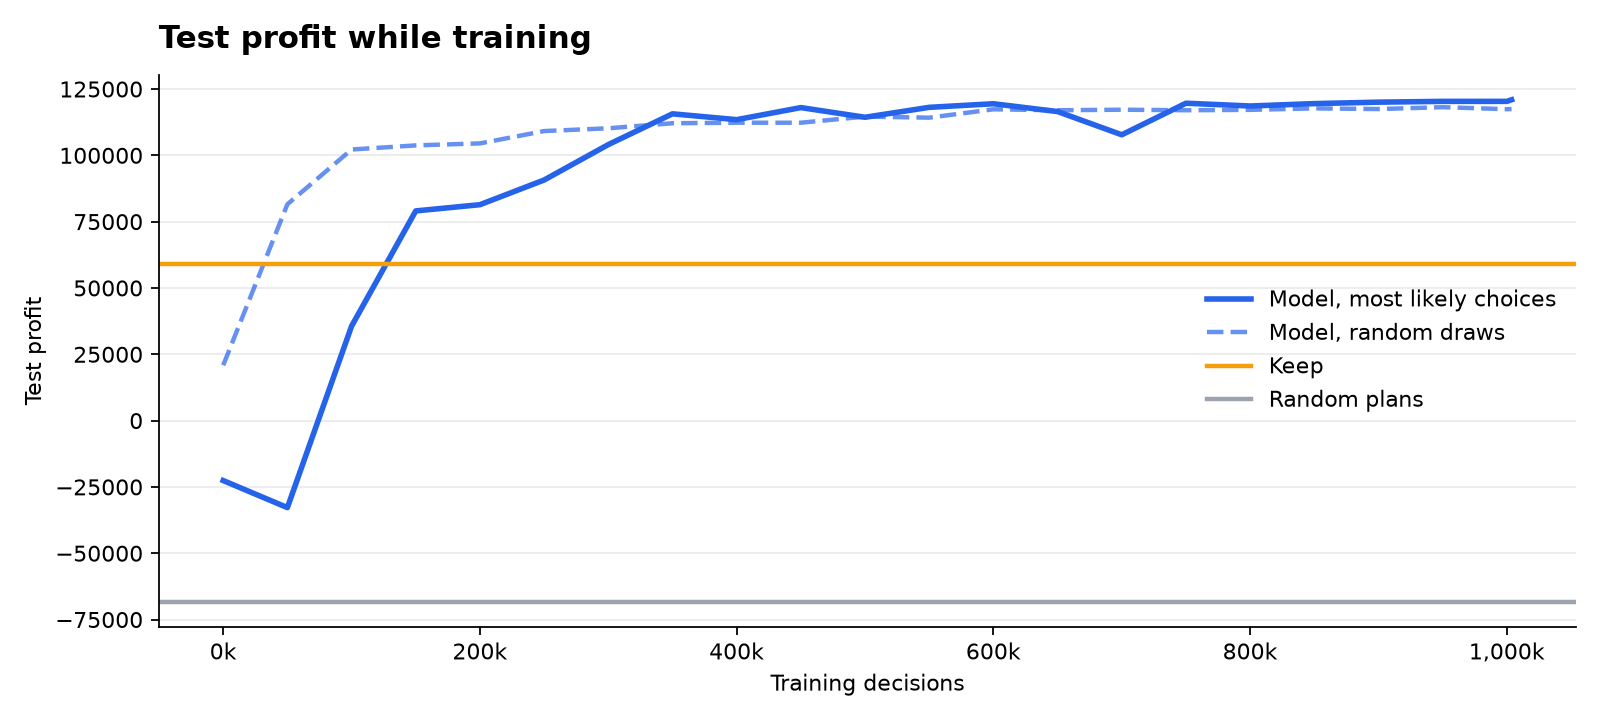
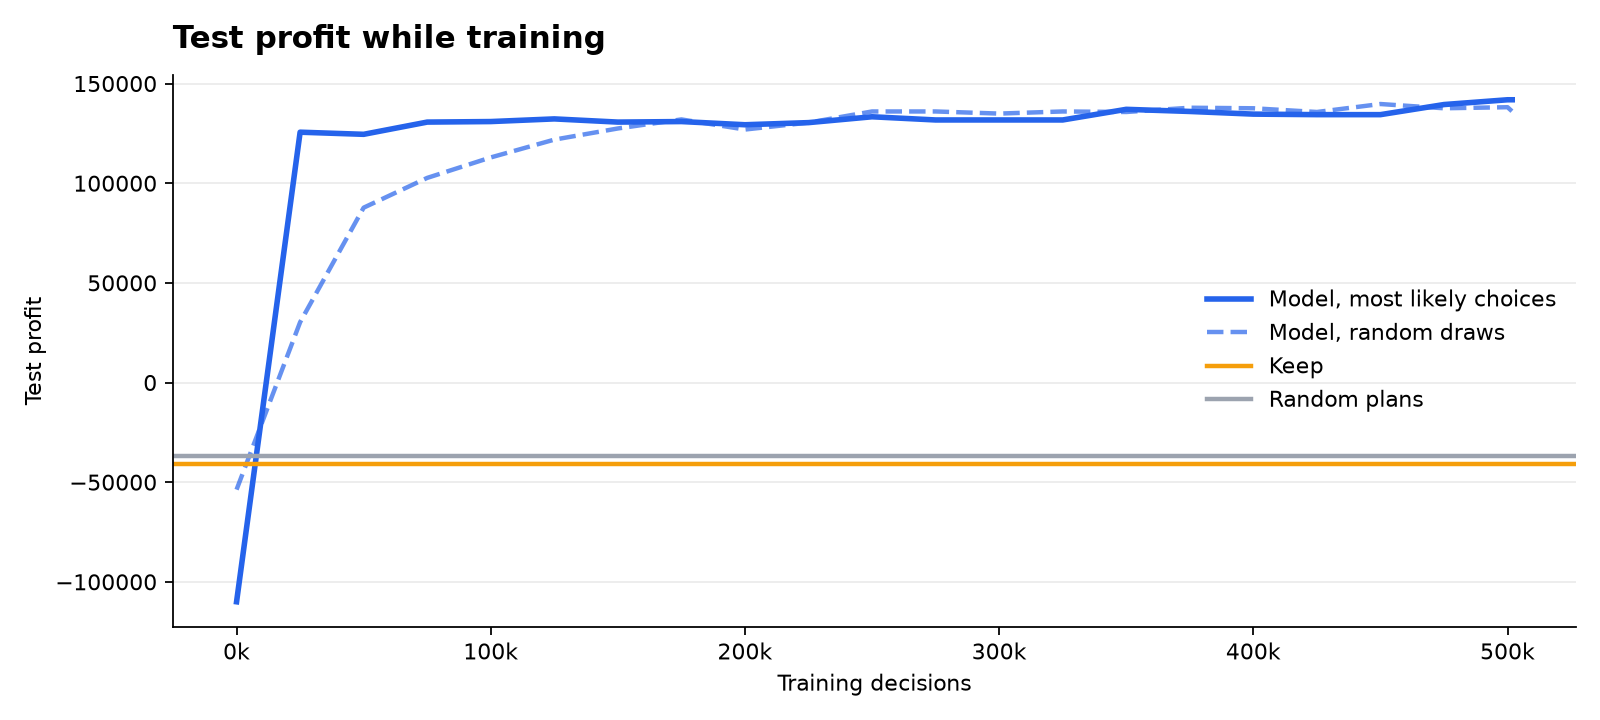
Add a roadmap and tidy the repo around it
- docs/roadmap.md: the target (money left on the table against the
  tightest bound, over light to busy days) and five milestones, starting
  with a whole-order upper bound and the busy-day gap.
- Move the large factory of experiments 1 to 9 to scenarios/large/.
- Remove lab variants used only by experiments 11 and 13, and
  scripts/other_orders.py (large factory only); all are in git history.
- Rewrite the README around the lab factory and redraw its pictures
  from the latest lab run; the image script now reads the episode length.
- Shorten "Where things stand" and point "Next steps" to the roadmap.

diff --git a/tests/test_sim.py b/tests/test_sim.py
@@ -10,7 +10,7 @@ from sjfactory.policies import KeepPolicy, RandomPolicy
 from sjfactory.recorder import Recorder
 from sjfactory.spec import PROJECT_ROOT, scenario_from_dict
 
-FACTORY = PROJECT_ROOT / "scenarios" / "default.yaml"  # the large factory most tests were written for
+FACTORY = PROJECT_ROOT / "scenarios" / "large" / "default.yaml"  # the large factory most tests were written for
 
 # One machine that turns A into B; B can be sold
 TINY = {
@@ -102,7 +102,7 @@ def test_same_seed_same_orders():
 
 
 def test_varied_orders_follow_their_ranges():
-    sim = FactorySim(load_scenario(PROJECT_ROOT / "scenarios" / "varied.yaml"))
+    sim = FactorySim(load_scenario(PROJECT_ROOT / "scenarios" / "large" / "varied.yaml"))
     counts, single = set(), 0
     for seed in range(40):
         orders = sim.reset(seed=seed).orders
@@ -117,7 +117,7 @@ def test_varied_orders_follow_their_ranges():
 
 
 def test_orders_are_hidden_until_known():
-    env = FactoryEnv(PROJECT_ROOT / "scenarios" / "varied.yaml", ticks_per_action=60)
+    env = FactoryEnv(PROJECT_ROOT / "scenarios" / "large" / "varied.yaml", ticks_per_action=60)
     obs, _ = env.reset(seed=0)
     s = env.sim.state
     assert any(o.known_time > 0 for o in s.orders)
@@ -151,7 +151,7 @@ def test_recipes_that_can_never_run_get_no_slot():
 
 
 def test_casters_scenario_plans_casters_too():
-    env = FactoryEnv(PROJECT_ROOT / "scenarios" / "casters.yaml", horizon=50)
+    env = FactoryEnv(PROJECT_ROOT / "scenarios" / "large" / "casters.yaml", horizon=50)
     assert [k.category for k in env.kinds] == ["Caster", "Constructor", "Assembler"]
     assert env.action_space.nvec.tolist() == [1 + 3 * 2, 1 + 5 * 4, 1 + 5 * 4]
 

diff --git a/scripts/readme_images.py b/scripts/readme_images.py
@@ -33,6 +33,7 @@ def style(ax, title: str):
 def draw_profit(run: Path):
     base = json.loads((run / "baselines.json").read_text())
     model = json.loads((run / "latest_curve.json").read_text())["fixed"]
+    horizon = json.loads((run / "config.json").read_text())["horizon"]
     fig, ax = plt.subplots(figsize=(10, 4.5), dpi=160)
     for name, curve, color, label in (
         ("random", base["random"]["curve"], GRAY, "Random plans"),
@@ -44,9 +45,9 @@ def draw_profit(run: Path):
                     textcoords="offset points", color=color, va="center", fontweight="bold")
     ax.set_xlabel("Time in the episode (s)")
     ax.set_ylabel("Cash")
-    ax.set_xlim(right=5000 * 1.07)
+    ax.set_xlim(right=horizon * 1.1)
     ax.legend(frameon=False, loc="upper left")
-    style(ax, "Money over one 5000 s episode, same orders")
+    style(ax, f"Money over one {horizon} s episode, same orders")
     fig.tight_layout()
     fig.savefig(OUT / "profit.png")
 

diff --git a/docs/experiments/README.md b/docs/experiments/README.md
@@ -2,24 +2,28 @@
 
 What was tried in training, what happened, and what it taught us. Run folders live in `runs/` on the machine that made them (not in git); `runs/index.html` compares them.
 
-All profits are the mean over test seeds 1000, 1001 and 1002 (the same orders every time), per 5000 s episode.
+Profits in experiments 1 to 9 are the mean over test seeds 1000, 1001 and 1002 per 5000 s episode, on the large factory. From experiment 10 on, results come from `check` on the lab factory: the mean over new seeds 2000 to 2009 per one-hour episode, often as a share of the upper bound.
 
-## Where things stand (2026-10-02)
+The plan for what comes next is in the [roadmap](../roadmap.md).
 
-**New default: the small lab factory** ([experiment 10](10-lab-factory.md)). It has 9 machines, round numbers and a load that can be checked by hand. A training run reaches its plateau in about 2 minutes. `python -m sjfactory check` shows keep, the oracle and the upper bound in under a minute. On new seeds the model reaches 96% of the upper bound (oracle 97%, keep 32%). Test ideas for the factory here first, as variant files (`base: lab.yaml`).
+## Where things stand (2026-10-03)
 
-First ideas tried ([experiment 11](11-lab-variants.md)): serving machines further down the line first changes nothing; spare time before the bottleneck lifts the oracle to 100% of the bound; storage costs hurt keep but not a model. The model trained on more orders than capacity (`lab-busy.yaml`) is the best on every lab scenario.
+**The lab factory** (`scenarios/lab.yaml`, [experiment 10](10-lab-factory.md)) is where all work happens: 9 machines, round numbers, a training run levels off in a few minutes, and `check` compares keep, models, the look-ahead planner, the oracle and the upper bound in under a minute.
 
-With a third product whose gear maker shares plates with the assemblers ([experiment 12](12-mixed-demand-and-three-products.md)), machine order starves the line: keep ships nothing and the oracle's played plan reaches only 53% of the bound. The model works around it (93%); with downstream priority, 95%. Compare against the upper bound; the oracle is only a fair yardstick when flow within a minute is smooth.
+**Since experiment 14 the lab ships whole orders only**: a short order earns nothing and is fined its full quantity at the full price. Under these rules the model reaches 89 to 91% of the upper bound on normal days, ahead of or level with the oracle, and 89% on `lab-three-downstream` (oracle 72%). On busy days (`lab-busy`) it reaches only 79%, where the oracle gets 87%. That gap, choosing which orders to drop, is the open problem; the roadmap starts there.
 
-Stricter penalties, per unit or per order, don't change which product gets the machines ([experiment 13](13-yardsticks-and-penalties.md)): all models ship the same mix. Product priority is a weak signal because each product displaces another on a busy machine, so the gain is only the difference in value. Order notice is generous (10 to 30 times the time to make a product). A look-ahead planner in the real simulator is now in `check`, but it is weaker than the models.
+What earlier lab experiments settled (numbers under the old rules, where part of an order was paid):
+- Serving machines further down the line first only matters when a material feeds recipes at different depths ([11](11-lab-variants.md), [12](12-mixed-demand-and-three-products.md)). There, machine order starves the line and the oracle fails (53%), while the model works around it (93%).
+- Spare time before the bottleneck lifts the oracle to 100% of the bound; storage costs hurt keep but not a model ([11](11-lab-variants.md)).
+- Training on busy days gives a model that is best on every lab scenario ([11](11-lab-variants.md), [12](12-mixed-demand-and-three-products.md)).
+- Stricter penalties don't change which product gets the machines, because on a busy machine the gain is only the difference in product value ([13](13-yardsticks-and-penalties.md)). Order notice is generous, 10 to 30 times the time to make a product.
+- Gamma stays at 0.97: 0.98 and 0.99 did worse in 500k steps ([14](14-whole-orders-and-gamma.md)).
 
-**Since experiment 14 the lab ships whole orders only** (`partial_delivery: false`): a short order earns nothing and is fined its full quantity at the full price. Numbers from experiments 10 to 13 come from the old rules. Under the new rules the model reaches 89 to 91% of the upper bound on normal days, ahead of or level with the oracle, but only 79% on busy days, where the oracle gets 87%. Gamma 0.98 or 0.99 did worse than 0.97 in 500k steps.
+The scenario files used only by experiments 11 and 13 (`lab-storage`, `lab-bottleneck`, `lab-three-strict`, `lab-three-orderfine`) were removed on 2026-10-03; get them back from git history if needed (`git log --all -- scenarios/lab-storage.yaml`).
 
-The rest of this section is about the larger factory of experiments 1 to 9 (`casters.yaml`, `varied.yaml`).
+### The large factory (experiments 1 to 9, finished)
 
-
-Two trained models, both with the move action and a move cost of 50, on the casters factory:
+The files are now in `scenarios/large/`. Two trained models, both with the move action and a move cost of 50, on the casters factory:
 
 | Orders (30 new seeds each) | Keep | Trained on the usual orders | Trained on varied orders |
 |---|---|---|---|
@@ -28,24 +32,13 @@ Two trained models, both with the move action and a move cost of 50, on the cast
 | Almost only Motor | 164,590 | 161,190 | 175,910 |
 | Tough: 100 large orders, known 900 to 2400 s ahead | -51,520 | -65,330 | -33,150 |
 
-- The action is one move per machine kind per minute ([experiment 7](07-move-action-and-casters.md)): the same level as the old plan action in less than half the steps. The casters are back and learned just as well.
-- A model trained on the usual orders plays one plan for that mix and loses to keep when the orders take another shape ([experiment 6](06-other-orders.md)). Trained on varied orders ([experiment 8](08-varied-orders.md)), it beats keep on every order shape tested, at a cost of about 10k on the usual shape.
-- Early orders used to be impossible (the first Frame takes about 550 s). Orders can now have a notice time, and nothing is due before it.
-- A move cost of 50 in the reward cut changeovers from 203 to 46 per episode on varied orders, without losing profit.
-
-The model is no longer the main limit: on every order type it matches or beats an oracle planner that knows all orders in advance ([experiment 9](09-bottleneck-analysis.md)). With the usual orders, demand is the limit; with heavy orders, the constructors' iron bar and screw time. Use `python -m sjfactory --scenario <file> check <model>` to see how close a model gets to the upper bound.
+- The action is one move per machine kind per minute ([experiment 7](07-move-action-and-casters.md)).
+- A model trained on one order shape plays one plan; trained on varied orders it beats keep on every shape tested ([6](06-other-orders.md), [8](08-varied-orders.md)).
+- On every order type the models match or beat the oracle ([9](09-bottleneck-analysis.md)). The open questions there are parked in the roadmap.
 
 ## Next steps
 
-1. Busy days under whole orders: the model is 8 points behind the oracle at choosing which orders to drop. Try longer training on `lab-busy.yaml` (gamma stays 0.97), or show the model how much work the known orders need compared with the machine time left.
-2. Shorter notice (for example 120 to 600 s) to test reacting, not just dividing machine time; show 30 orders instead of 20.
-3. Break ties in input priority: machines that make a product first, then those that make parts (under keep, `lab-three-downstream.yaml` ships no Frames).
-4. Find where batch flow loses 10 to 15% in the larger factory: input priority is not it (experiment 11). Next suspect: machines waiting for a full batch of inputs (Rotor needs 25 screws).
-5. Harder lab variants that need planning: machine breakdowns, or a machine kind that can only run some recipes.
-6. Larger factory: train the varied model longer (for example 3M steps; it was still improving at 1M). It is 10k behind the usual model on the usual orders.
-7. Keep the move cost at 50 or lower: useful plans switch 60 to 110 times per episode.
-8. Scenario ideas from [Not modelled yet](../design/simulation.md#not-modelled-yet).
-
+See the [roadmap](../roadmap.md). The first step is a whole-order upper bound, so the busy-day gap is measured against an honest ceiling.
 ## Experiments
 
 | # | Page | Change | Result |

diff --git a/README.md b/README.md
@@ -2,7 +2,7 @@
 
 <p align="center">
   A factory simulator where a reinforcement learning model decides which machine makes what.<br>
-  Work in progress: it already earns more than the "change nothing" rule.
+  Work in progress: on normal days it already matches a planner that knows every order in advance.
 </p>
 
 <p align="center">
@@ -13,20 +13,20 @@
 </p>
 
 <p align="center">
-  <img src="docs/images/profit.png" alt="Cash over time: trained model 118k, keep 56k, random plans -68k" width="860">
+  <img src="docs/images/profit.png" alt="Cash over one hour on the lab factory: trained model 111k, keep 38k, random plans -93k" width="860">
 </p>
 
-Reinforcement learning (RL) means a program learns by trial and error, guided by a reward score. Here the reward is money earned. Every minute the model may move one machine of each kind to another recipe, and the simulator plays out the next minute.
+Reinforcement learning (RL) means a program learns by trial and error, guided by a reward score. Here the reward is money earned. Every minute the model may move one machine of each kind to another recipe, and the simulator plays out the next minute. Customers order products with a due time, and an order is paid only if it ships in full; a short order is fined.
 
-This project is still in development. These are the results so far, and they will change.
+This project is still in development. Results so far, on the small lab factory (`scenarios/lab.yaml`), mean over 10 new days (seeds 2000 to 2009):
 
-| Policy | Test profit | Ordered units shipped |
+| Policy | Normal day (`lab`) | Busy day (`lab-busy`) |
 |---|---|---|
-| **Trained model** (1M decisions, about 13 minutes) | **about 120k** | **about 88%** |
-| Keep (every machine stays on its starting recipe) | 58.9k | 39% |
-| Random plans (before the move action) | -68.3k | about 2% |
+| **Trained model** (500k decisions, about 4 minutes) | **109.8k (89%)** | 101.5k (79%) |
+| Oracle: an integer program that knows every order in advance | 109.0k (88%) | **112.1k (87%)** |
+| Keep: every machine stays on its starting recipe | -2.9k | -31.8k |
 
-Profit is the mean over three test episodes with fixed orders, on the larger factory of experiments 1 to 9 (`scenarios/casters.yaml`). The default is now the small lab factory (`scenarios/lab.yaml`).
+The share in brackets is of the upper bound, a profit no schedule can beat. On normal days the model matches the oracle; on busy days, where it must choose which orders to give up, it is still behind. The [roadmap](docs/roadmap.md) says what we aim for and what comes next.
 
 ## How it works
 
@@ -40,24 +40,23 @@ flowchart LR
     B --> E["HTML pages and charts"]
 ```
 
-The model starts out knowing nothing. After about 120k decisions it beats keep, and it levels off near 120k profit:
+The model starts out knowing nothing. After about 25k decisions it is far ahead of keep, and it levels off within about 300k:
 
 <p align="center">
-  <img src="docs/images/learning.png" alt="Test profit while training: the model passes keep after about 120k decisions and settles near 120k profit" width="860">
+  <img src="docs/images/learning.png" alt="Test profit while training: the model passes keep almost at once and settles near 140k on the test days" width="860">
 </p>
 
 The solid line is the model taking its most likely choices. The dashed line is it drawing choices at random, as it does in training. Both end in the same place, so the model really has a plan and is not relying on luck.
 
-This is what the plan looks like on the factory floor: 14 constructors on top, 5 assemblers at the bottom, one colour per recipe.
+This is what the plan looks like on the factory floor: 3 smelters, 3 constructors and 3 assemblers, one colour per recipe.
 
 <p align="center">
-  <img src="docs/images/schedule.png" alt="Machine schedule of the trained model" width="860">
+  <img src="docs/images/schedule.png" alt="Machine schedule of the trained model on the lab factory" width="860">
 </p>
 
-The pictures come from one training run; `uv run python scripts/readme_images.py runs/<folder>` redraws them.
+The pictures come from one training run on `lab.yaml`; `uv run python scripts/readme_images.py runs/<folder>` redraws them.
 
-All docs start at [docs/README.md](docs/README.md): [design](docs/design/README.md) (simulation rules, what the model decides and sees, training) and [experiments](docs/experiments/README.md) (results so far, lessons, next steps).
-
+All docs start at [docs/README.md](docs/README.md): the [roadmap](docs/roadmap.md), [design](docs/design/README.md) (simulation rules, what the model decides and sees, training) and [experiments](docs/experiments/README.md) (results so far, lessons).
 ## Run
 
 ```bash
@@ -86,9 +85,10 @@ Each run folder also holds `summary.json`, `history.xlsx`, `dashboard.png`, `gan
 
 ## Layout
 
-- `scenarios/lab.yaml`: the default factory, small and balanced for quick experiments. A variant file names it as `base:` and lists only what changes (see `lab-busy.yaml`)
-- `scenarios/default.yaml`, `casters.yaml`, `varied.yaml`: the larger factory used in experiments 1 to 9
-- `sjfactory/`: the code (`spec` → `sim` → `env` → `policies`, plus `evaluate`, `training`, `recorder`, `plots` and `web` for running and watching)
+- `scenarios/lab.yaml`: the default factory, small and balanced for quick experiments. A variant file names it as `base:` and lists only what changes: `lab-busy.yaml` (more orders than capacity), `lab-mixed.yaml` (light to busy days), `lab-three.yaml` and `lab-three-downstream.yaml` (a third product that shares parts)
+- `scenarios/large/`: the larger factory of experiments 1 to 9, now parked; the tests still use it
+- `sjfactory/`: the code (`spec` → `sim` → `env` → `policies`, plus `check`, `lookahead`, `evaluate`, `training`, `recorder`, `plots` and `web` for checking, running and watching)
+- `scripts/readme_images.py`: redraws the pictures on this page
 - `tests/`: tests
 
 Generated files (`runs/`, `*.png`, `*.xlsx`, `*.zip`) are ignored by git. Don't commit them. The pictures in `docs/images/` are the one exception.

diff --git a/docs/roadmap.md b/docs/roadmap.md
@@ -1,0 +1,100 @@
+# Roadmap
+
+Where the project is going, why, and in what order. Started 2026-10-03, after experiment 14. Each milestone
+says what "done" means; when one is done, mark it here and record the work as an experiment page.
+
+## The target
+
+The project builds a program that runs a factory for as much money as possible. So the measure that counts is
+the money it leaves on the table on a day $d$:
+
+$$\text{regret}(d) = \text{best possible profit}(d) - \text{model's profit}(d)$$
+
+averaged over the kinds of days a real factory sees. "Best possible" has several levels, and each one is at
+least as high as the one before:
+
+$$\text{best plan knowing only today's orders} \le \text{best plan knowing every order} \le \text{whole-order bound} \le \text{upper bound}$$
+
+The first can't be computed, so we measure against the tightest one we can compute and say which one it is.
+
+**Goal:** on a fixed set of test days, from light to busy, the model is at least as good as the oracle (the
+planner that knows every order in advance) on every kind of day, and leaves less than 10% of the tightest
+bound on the table on average.
+
+## Why busy days come first
+
+- On normal days almost every order can be made, so the job is only to divide machine time. The model already
+  matches the oracle there (89-91% of the upper bound). Little money is left to win.
+- On busy days there are more orders than the factory can make, and since experiment 14 an order is paid only
+  if it ships in full. A plan must give up whole orders on purpose, and choosing badly is expensive: work spent
+  on an order that is dropped later is lost, and the order is fined its full price. This is where the model is
+  furthest behind (79% against the oracle's 87%).
+- Busy days hide two different problems. **Which orders to take** is a choice among about 30 to 50 orders that
+  a solver can make exactly in well under a second, but a trained model must learn it from fines that arrive
+  up to 30 minutes after the decision. **How to run the line minute by minute** is where the trained model is
+  already strong; it beats the oracle when the line can starve (`lab-three`: 93% against 53%).
+
+## Milestones
+
+### 1. An honest yardstick (next)
+
+The upper bound in `check.py` lets an order ship in part even when the scenario ships whole orders only. On a
+busy day it then fills spare machine time with pieces of orders that in reality earn nothing, so the bound is
+too high exactly where the model looks weakest. We don't yet know how big the busy-day gap really is.
+
+- Make the bound treat each order as yes or no when `partial_delivery: false` (an integer program with one
+  yes/no choice per order; machine time stays divisible, so it stays fast and stays a true bound).
+- Re-measure keep, the oracle and the best models on `lab`, `lab-busy`, `lab-mixed` and
+  `lab-three-downstream`.
+
+Done when `check` prints the whole-order bound and the numbers above are redone with it.
+
+### 2. Where the busy-day money goes
+
+Split each policy's loss on busy days into parts that point to different fixes:
+- **choice:** the orders it filled are worth less than the oracle's set;
+- **waste:** machine time spent on units that were never shipped (orders started and then missed);
+- **flow:** time lost to waiting, switching and batches, on the orders it did ship.
+
+Done when `check` prints this split and we know which part is largest.
+
+### 3. Close the busy-day gap
+
+Try, cheapest first, and stop when the model reaches the oracle on `lab-busy`:
+1. Longer training on `lab-busy` (gamma stays 0.97).
+2. Show the model, for the known orders, how much machine time they need compared with the time left before
+   each is due, so it can see which orders still fit.
+3. Let the model drop an order on purpose, so nothing more is spent on it.
+4. If the model still can't learn the choice: a small solver picks the orders each minute and the model runs
+   the line for them. Kept as its own policy, so pure model and solver-plus-model can be compared.
+
+### 4. One score for all kinds of days
+
+A single `check` run over a fixed set of days: light to busy (`lab-mixed`), shared materials
+(`lab-three-downstream`), and later short notice. It prints the share of the tightest bound per kind of day
+and on average, so one number says whether a change helped, and no kind of day gets worse unnoticed.
+
+### 5. Reacting to the unexpected
+
+Today orders are known 10 to 30 times the time it takes to make them, so knowing every order in advance is
+worth almost nothing, and the oracle is a fair yardstick. Real factories get rush orders and breakdowns, and
+that is where a trained model should beat any planner that plans once.
+- Shorter notice (120 to 600 s), and show 30 orders instead of 20.
+- Machine breakdowns (a new scenario setting whose default is none).
+- A fair yardstick for this: the look-ahead planner or the oracle re-planned each minute from the orders known
+  so far.
+
+## Parked
+
+Not on the path to the target; pick up only if a milestone needs them.
+
+- Ties in input priority: machines that make a product first, then those that make parts (under keep,
+  `lab-three-downstream.yaml` ships no Frames). Matters for keep, not for trained models.
+- The large factory of experiments 1 to 9 (`scenarios/large/`): where batch flow loses 10 to 15%; longer
+  training of the varied model; move cost. Its files and best models stay usable, and the tests still use it.
+- Buying raw materials.
+
+## Done
+
+- Experiments 1 to 14 ([experiments](experiments/README.md)): a model that matches or beats the oracle on
+  normal days in a 4-minute training run.

diff --git a/docs/design/simulation.md b/docs/design/simulation.md
@@ -13,7 +13,7 @@
 
 All machines share one warehouse, so the scenario needs no links between machines. The real connections are the material flow chart (`material_flow.png`), drawn from the recipes.
 
-A change meant only to make this faster must give identical results: compare it second by second with the old code on several seeds, with random plans, and check that keep still makes 52,050 on seed 0.
+A change meant only to make this faster must give identical results: compare it second by second with the old code on several seeds, with random plans, and check that keep still makes 52,050 on seed 0 of `scenarios/large/default.yaml`.
 
 ## Variant files
 
@@ -38,16 +38,12 @@ A small factory built for quick experiments: round numbers, every load easy to c
 
 On seeds 2000 to 2009, keep makes -2.9k and the oracle 109k (88% of the upper bound, 123k).
 
-Variants (each a few lines on top of `lab.yaml`):
+Variants (each a few lines on top of `lab.yaml`), each with a role in the [roadmap](../roadmap.md):
 - `lab-busy.yaml`: 30 to 50 orders, about 410 units against a capacity of 360, so the plan also has to choose which orders to leave short.
-- `lab-storage.yaml`: storage costs on every part and product (0.01 to 0.05 per unit per second), so parts made too early cost profit.
-- `lab-bottleneck.yaml`: 4 smelters and 4 constructors, so only the assemblers are tight.
 - `lab-mixed.yaml`: 15 to 50 orders, from light days to more than the factory can make.
-- `lab-three-strict.yaml` and `lab-three-orderfine.yaml`: `lab-three-downstream.yaml` with penalties twice the price, or a fine of 3,000 per order not filled in full (material field `order_fine`).
 - `lab-three.yaml`: a third product, Pump (1 Gear + 1 Plate + 1 Wire; a constructor makes a Gear from 2 Plates), on 4 smelters, 4 constructors and 3 assemblers. Plates go both to assemblers and to gear making, and in machine order the gear maker takes every plate, so keep ships nothing. `lab-three-downstream.yaml` is the same with `input_priority: downstream`.
 
-`casters-downstream.yaml` is the larger casters factory with `input_priority: downstream`.
-
+Variants used only by experiments 11 and 13 (storage costs, a single tight kind, stricter penalties, order fines) were removed on 2026-10-03 and are in git history. The settings they used (`storage_cost`, `order_fine`) still work.
 ## Checking a scenario without training
 
 `uv run python -m sjfactory --scenario <file> check [models ...]` prints, in under a minute:
@@ -57,7 +53,11 @@ Variants (each a few lines on top of `lab.yaml`):
 
 Use it to see whether a change to the factory changes anything before spending a training run on it.
 
-## The default scenario (`scenarios/default.yaml`)
+## The large factory (`scenarios/large/`)
+
+The factory of experiments 1 to 9, now parked. `casters-downstream.yaml` is the casters factory with `input_priority: downstream`.
+
+### `default.yaml`
 
 - 5000 s per episode, 50 random orders for Motors and Frames, seeded at `reset()`.
 - 25 machines: 6 casters, 14 constructors, 5 assemblers.
@@ -67,11 +67,11 @@ Use it to see whether a change to the factory changes anything before spending a
 
 The large factory from the earlier experiments (1 to 9). Despite the file name, it is no longer the default; tests still use it.
 
-## The casters scenario (`scenarios/casters.yaml`)
+### `casters.yaml`
 
 The same factory with the smelting layer switched on: ore and coal start at 99,999 and ingots at 0, so the casters must make every ingot. With the starting recipes, casters and constructors are roughly in balance (3 iron casters make 1.5 iron ingots per second, which is what 6 bar constructors use), so moving constructors onto plates needs iron casters taken from steel. Keep makes 58,100 on the test seeds, about the same as in the default scenario.
 
-## The varied-orders scenario (`scenarios/varied.yaml`)
+### `varied.yaml` (varied orders)
 
 The casters factory, with orders whose shape changes every episode, so a model has to read the orders instead of learning one plan:
 - `count: [20, 100]` orders, `quantity: [1, 15]` units each.

diff --git a/docs/README.md b/docs/README.md
@@ -4,6 +4,7 @@ Start here. Each folder has its own index (`README.md`) listing its pages.
 
 | Area | What it answers |
 |---|---|
+| [roadmap.md](roadmap.md) | What we aim for, why, and the milestones to get there |
 | [design/](design/README.md) | How the factory is simulated, what the model sees and decides, and how it is trained |
 | [experiments/](experiments/README.md) | What was tried in training, the results, the lessons, and what to try next |
 
@@ -12,3 +13,4 @@ How to use and add to these docs:
 - A page covers one topic. When adding a page, add a line for it to its folder's index.
 - When the rules in `FactorySim.step` or the RL interface in `env.py` change, update the matching page in `design/`.
 - Every training experiment gets a page in `experiments/` and a row in its index.
+- When a milestone in the roadmap is done or the plan changes, update `roadmap.md`.

diff --git a/docs/design/rl-interface.md b/docs/design/rl-interface.md
@@ -4,7 +4,7 @@
 
 For each machine kind (category), how many machines should run each of its recipes. An episode starts with the plan the machines start in, so a model that never changes it plays exactly like the keep rule.
 
-Recipes that can never run, because an input can never be obtained (`Scenario.obtainable`: starting stock plus anything made from it), are left out. In `default.yaml` there is no ore, so the casters are left out and never run; in `casters.yaml` they are planned like any other kind.
+Recipes that can never run, because an input can never be obtained (`Scenario.obtainable`: starting stock plus anything made from it), are left out. In `large/default.yaml` there is no ore, so the casters are left out and never run; in `large/casters.yaml` they are planned like any other kind.
 
 ## Action: one move per kind
 
